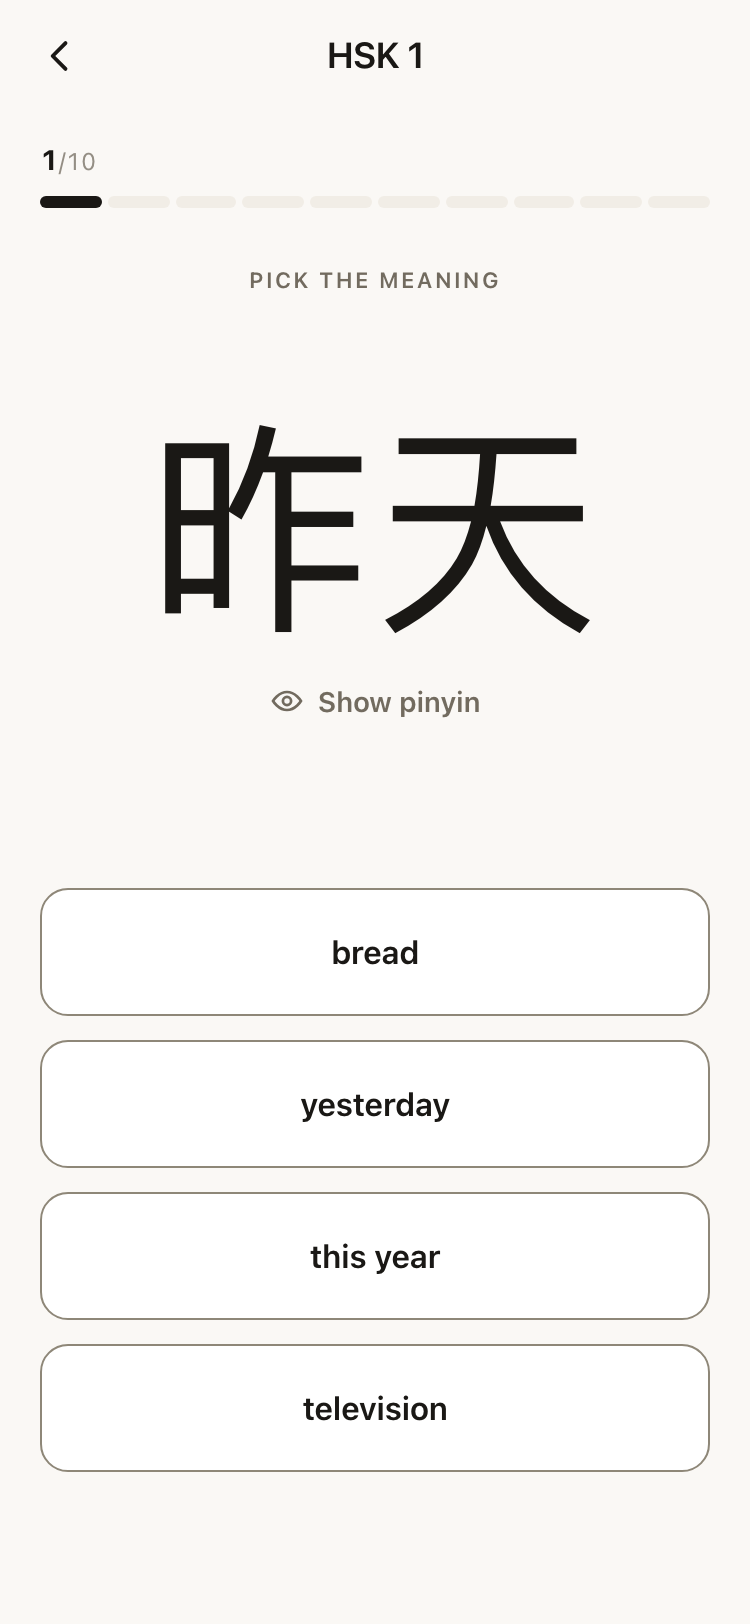
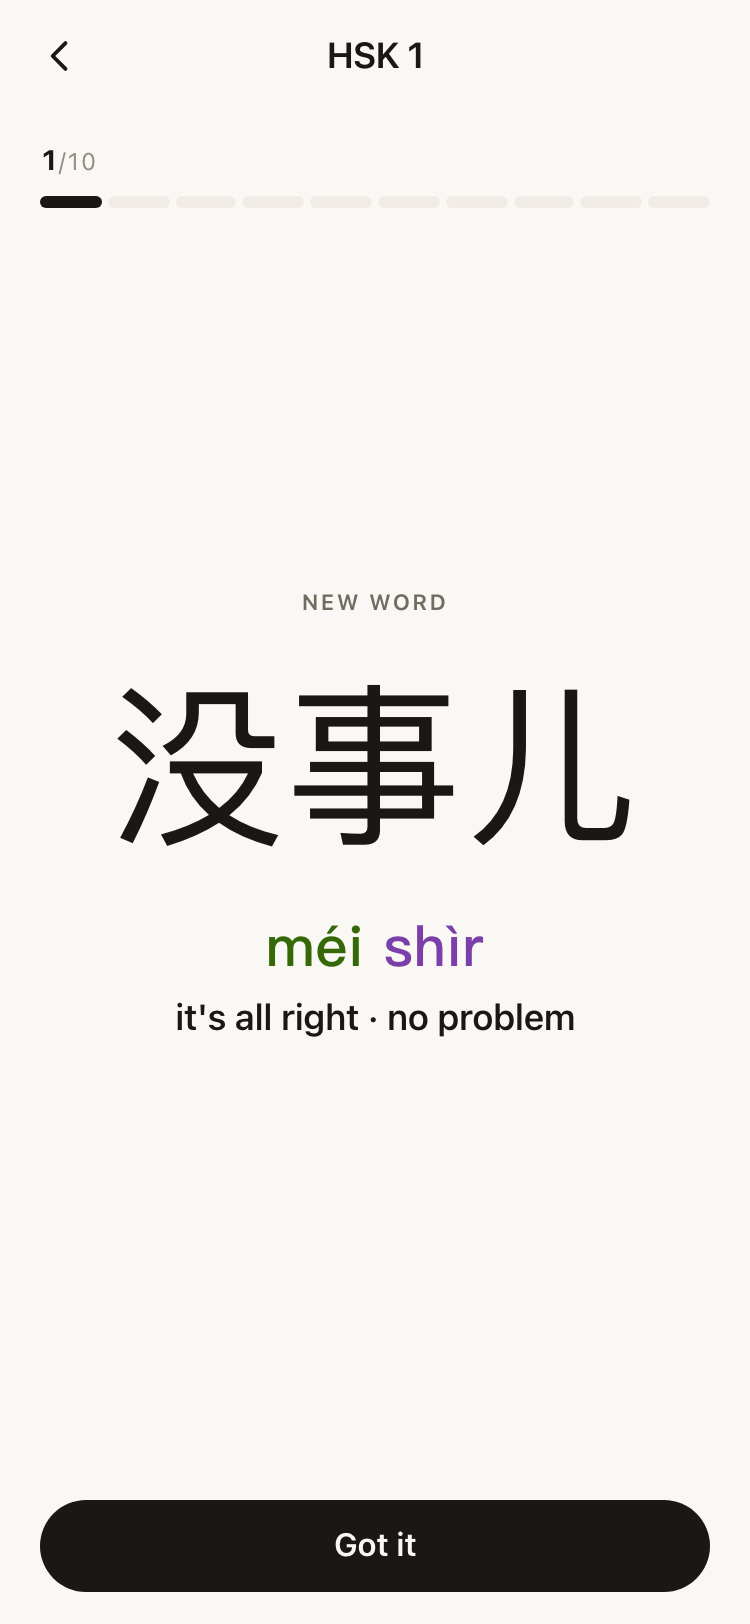
critic(session-engine): FAIL — Make a taught word visible to every screen that counts words — and make the summary's own [loop 3]

diff --git a/progress/verdicts/loop-3-session-engine.md b/progress/verdicts/loop-3-session-engine.md
@@ -1,0 +1,163 @@
+# loop 3 — session-engine — FAIL
+
+**The loop-2 gap is closed.** The introduce card is in the product, not just the library:
+`/quiz/1` on a clean profile opens on a NEW WORD reveal — hanzi, tone-coloured pinyin, every
+gloss, POS, one "Got it", no choices (`progress/shots/loop-3/session-engine-firstlook-mobile.png`,
+`session-engine-mobile.png`). Ten teach cards later localStorage holds ten records of
+`[0,0,0,<ts>,0]` — **zero fabricated misses**, the exact thing loop 2 failed on. The summary says
+"10 new words · These were shown, not tested — nothing here counts against you" instead of "3 of
+10 correct". Production cards render (`session-engine-production-card-mobile.png`) and no longer
+leak the answer through "Show pinyin". The weighting is measurably right: chronically-missed words
+draw 31× a mastered word and 113× an unseen one while unseen words still surface at exactly 4.00
+per session; 0 duplicate words in 400 sessions, 0 distractors sharing the answer's hanzi or any of
+its senses across 4,000 cards, 84.3% POS-matched distractors against a 22.9% random baseline. 308
+node/client tests pass. `readRecord`, `wordWeight` and `cardKindFor` are total against null, bare
+strings, NaN, Infinity, 1e308 and `streak:99 / correct:0`. Robustness is not the problem here.
+
+It fails because the engine now knows something the rest of the app cannot read, and because a
+button in the summary names ten words the engine will not give it.
+
+## Surviving findings, ranked
+
+**1. MAJOR — an exposure is legible only inside `src/lib/session/`.** `readRecord` returns
+`exposures`, `met` and `taughtOnly` (`src/lib/session/record.ts:60-113`) and *nothing outside that
+directory imports any of them* — `grep -rln "taughtOnly\|exposures" src/` returns five files, all
+of them `src/lib/session/*`. Every screen still equates "met" with "answered" by reading
+`record.seen` raw: `accumulate` early-returns on `record.seen === 0`
+(`src/lib/progress/progress.svelte.ts:814`), `levelStats`/`overallSummary` gate on
+`record.seen > 0` (`src/lib/components/levels/stats.ts:53,104`), `statusOf` returns `'new'` on
+`record.seen <= 0` (`src/lib/components/browse/status.ts:49`), `progressLine` returns "Not
+practised yet" (`status.ts:124`). So one tap after a summary that says "10 new words", `/`
+renders "0 words practised · just now" and "HSK 1 · Continue · 0 of 500 practised"
+(`session-engine-home-after-mobile.png`) and `/browse/1` renders "500 All / 500 New" with every
+taught word labelled "Not practised yet" (`session-engine-browse-after-mobile.png`). Reproduced by
+the verifier twice, once against the real `ProgressStore`: `levelStats(state,1)` =
+`{practised:0, mastered:0, answered:0, accuracy:null}`, `statusCounts` = `{all:500, new:500}`,
+`store.levelSummary(1)` = `{seen:0, answers:0}`.
+
+Two corrections to the critic that narrow it without rescuing it. (a) "record.ts is the only
+module that knows an exposure exists" is false — `progress-core.ts:304 applySeen` writes it and
+`hasHistory` (`progress-core.ts:179`) is explicitly `record.seen > 0 || record.lastSeen > 0`. What
+is true is that **no reader on any screen** knows. (b) "the lie flipped direction" overstates: "0
+words practised" is literally true of a word shown and not answered, and the summary says as much
+in the same breath. **The one outright false statement is the arc**, `SessionSummary.svelte:366`
+"of 500 words met" with a legend reading "met once" (`:375`) — it counts answers, while `met` is a
+defined term in this codebase (`record.ts:78`: answered *or* exposed). The verifier measured "9 of
+500 words met" after 11 distinct words had been shown, matching the critic exactly. Scope: for 9
+of the 10 words the blind window lasts one session, because `splitQuota`'s debt quota pays them
+off next run. It is still the first thing a first-time learner sees after their first session.
+
+**2. MAJOR (found by the verifier, missed by the critic) — "Practise these 10" cannot deliver the
+ten words it names.** After a first-look session `SessionSummary.svelte:181` sets
+`nextLabel = 'Practise these ${taught.length}'` and renders it as the primary at `:516`, wired to
+`onRestart` → `src/routes/quiz/[level]/+page.svelte:232 restart()` → `startSession(level, false)`
+→ a plain `buildSession(words, target, progress)`. There is no path from that button to the set it
+names. Because `splitQuota` is deterministic (verified across 25 independent seeds, zero
+variance), tapping it always drills **9 of the 10 and introduces an eleventh brand-new word
+instead of the tenth**. Same arithmetic as finding 3, but pointed at a literal UI promise, which
+makes it a defect rather than a defensible scheduling choice.
+
+**3. MINOR — session 2 is nine tenths of session 1, deterministically.** S1 taught 地图 上 早 大学
+不客气 做 请假 电 非常 今天; S2 asked nine of them plus one new word
+(`session-engine-s2q1-mobile.png`). Verifier: 9/10 overlap in 25 of 25 seeds, zero spread.
+`splitQuota` (`src/lib/session/index.ts:120`): exploreShare 4, capacity 12, brake 0.1667,
+explore = max(MIN_FRESH 1, round(0.667)) = 1, so review takes 9 every time. Defensible as
+teach-then-test on its own; not defensible under the button in finding 2.
+
+**4. MINOR — the leech brake never releases, and inverts the brief for relearned words.**
+`readRecord.misses` is `answers - correct`, monotonic with no decay, and `leechBrake` divides on
+it forever. Real `wordWeight` at 30 days stale with 3 correct in a row: missed-10-then-relearned =
+**0.1929**, never-missed = **0.2734**. The word the learner found hardest is drawn 0.71× as often
+as one they never got wrong — the opposite of the README's "weighted toward past misses", and
+`weighting.ts` does not acknowledge this direction. The curve is also a cliff, not a ramp:
+0 misses 0.2744, 5 → 0.9606, 6 → 1.0063, 7 → 0.4740 (a 2.12× drop across `leechLapses`).
+
+**5. MINOR — near-synonyms ship as wrong answers.** 没事儿 "it's all right" with 没关系 on the
+card and the mirror; 温暖 "warm" with 暖和 "nice and warm"; 带领 "to lead the way" with 带动.
+`distractors.ts:isAmbiguousWith` compares normalised gloss strings, same-hanzi and
+character-nesting only, and its own doc (`:171`) names 没关系/没事儿 as out of reach. **Correct
+the critic's framing:** "production is 15% of questions so it lands" conflates two rates. Measured
+collision rate for these pairs is 4 in 5,500 cards — **0.07%**. Minor is right; "it lands" is not.
+
+**6. MINOR (verifier) — `senses.ts` normalises five things and not hyphens, and the build gate
+inherits the hole.** `normalise` (`src/lib/data/senses.ts:184`) keeps `-` in its character class,
+so `senseSet('快速') = ['high-speed','rapid']` and `senseSet('高速') = ['high speed','expressway']`
+do not intersect. Confirmed against real data: `hsk3.json` ships 高速 `["high speed","expressway"]`
+and 快速 `["high-speed","rapid"]`. Both can sit on one card — prompt "high-speed · rapid" with
+"high speed" on screen as a wrong answer. `scripts/build-vocab.mjs` imports the same module for
+its "no two shipped words share a sense" gate, so that guarantee is defeated by punctuation.
+Exactly one such pair across all five levels; a one-line fix, for a case the module's own doc
+would call in scope.
+
+**7. MINOR — production is thin for lightly-met words.** 15.2% of cards meaning-to-hanzi (loop 2:
+0.2%, so `PRODUCTION_STREAK=1` fixed most of it); 13 of 60 sessions with no production card; 64 of
+182 words ever asked were ever produced. Mechanism is real — `cardKindFor` promotes at streak ≥ 1
+while `wordWeight` multiplies by `0.45^streak`. **Correct the headline:** "two thirds of words are
+never produced" is dominated by the tail, since a word asked once *cannot* be produced. Among
+words asked 3+ times, 86% are produced, and production is 21.2% of *scored questions* across all
+five levels. "Both directions" is true of nearly every word actually being drilled.
+
+**8. LATENT (verifier).** `takeDistinct`'s held list is flushed unconditionally
+(`session/index.ts:158-166`) with no re-check, and `isAmbiguousWith` returns true for
+`candidate.id === answer.id`, so an identity collision lands in `held` and gets pushed in —
+demonstrated on a duplicated 12-entry list producing a session that asks four words twice.
+Unreachable via `loadLevel` (all 500 L1 ids unique), so a guard gap, not a live bug. Separately,
+`session/index.ts:363` returns `'dropped'` when the writer has no `noteSeen` and the doc calls that
+"a repeat"; driven for real it is an **infinite teach loop** — five consecutive sessions produced
+50 cards, all dropped, zero records written. Not reachable through the shipped store, but it is
+the shape a learner with unusable localStorage gets, and the comment understates it by an order of
+magnitude.
+
+## Refuted — do not carry forward
+
+**The leech brake does not retire words.** The critic's "the five words a learner cannot get right
+stop being shown entirely, twice in sessions 26–60" does not replicate. Over 200 real L1 sessions
+those five accumulate 11, 12, 12, 13 and 15 appearances against a hardest ordinary word at 14 and
+a median at 3 — they are the joint-most-shown words in the run, and they keep appearing after the
+brake bites (50 in sessions 1–50, then 4, 2, 2). On a 60-session rerun the critic's "twice" came
+out 13, i.e. 6.5× their figure, so it is seed noise, not a property of the engine. And they are
+not invisible: streak 0 puts them under `/browse/{level}`'s Shaky chip, "Missed last time", with a
+count. What is left is a copy gap already captured by finding 4, not retirement.
+
+## Blind judge
+None. session-engine is a logic piece — `progress/blind/loop-3/` holds pairs only for app-shell,
+design-system, level-select, quiz-card, session-summary and vocab-browse.
+
+## Biggest gap
+
+**Make a taught word visible to every screen that counts words — and make the summary's own
+"Practise these N" actually practise those N.** Both are the same hole: the session's taught set
+exists only inside `src/lib/session/`. Close it in this order.
+
+1. **Give the exposure a field of its own.** Add `exposures: number` to `WordProgress`
+   (`src/lib/types.ts:59`) — `readRecord` already reads it — default it in `blankWord`, carry it
+   through `decode`/`mergeProgress` (`src/lib/progress/progress-core.ts`), and have `noteSeen`
+   (`progress.svelte.ts:290` → `applySeen` at `progress-core.ts:304`) bump it alongside
+   `lastSeen`. Keep `seen`/`correct` meaning *answers*. Do not bump `seen` — that is the loop-2
+   mistake, and `readRecord`'s unstamped-miss repair at `record.ts:130` exists to undo it.
+
+2. **Change the four readers that still equate met with answered.** `accumulate`
+   (`progress.svelte.ts:814`): drop the `record.seen === 0` early return so an exposure-only
+   record counts into `seen` while contributing nothing to `answers`/`correct`.
+   `levelStats`/`overallSummary` (`stats.ts:53,104`): count a taught word as `practised`, leave
+   `answered`/`accuracy`/`shaky` on answers alone — an exposure is not a miss and must never make
+   a word shaky. `statusOf` (`status.ts:49`): give exposure-only records their own bucket —
+   `'seen'`, chip "Shown", `progressLine` "Shown, not yet tested" — instead of collapsing them
+   into `'new'`; add it to `StatusCounts` and the chip row so the browse total still reconciles.
+   Fix the arc's legend at `SessionSummary.svelte:366,375` last: once `accumulate` counts
+   exposures, "words met" / "met once" becomes true instead of off-by-the-taught-set.
+
+3. **Wire the button to the set it names.** Give `buildSession` a way to be handed a required word
+   list (or add a `retest(level, wordIds)` path) and have `restart()`
+   (`src/routes/quiz/[level]/+page.svelte:232`) pass the ten ids the summary just displayed when
+   `firstLook` is true. If you would rather not add that path, change the label — but a primary
+   that says "Practise these 10" and delivers nine of them plus a stranger is a defect either way.
+
+4. **Verify in the browser, not vitest.** One clean HSK 1 session: the summary says "10 new
+   words", then `/` must not say "0 words practised", `/browse/1` must not say "500 New", and the
+   arc must not say "0 of 500 words met". Then tap "Practise these 10" and confirm all ten
+   questions are the ten words just taught. Screenshot all three.
+
+Only after that is the scheduler worth touching: finding 4's never-releasing leech divisor is the
+next-largest correctness problem, and it is currently drawing a relearned hard word *less* often
+than one the learner never missed.
